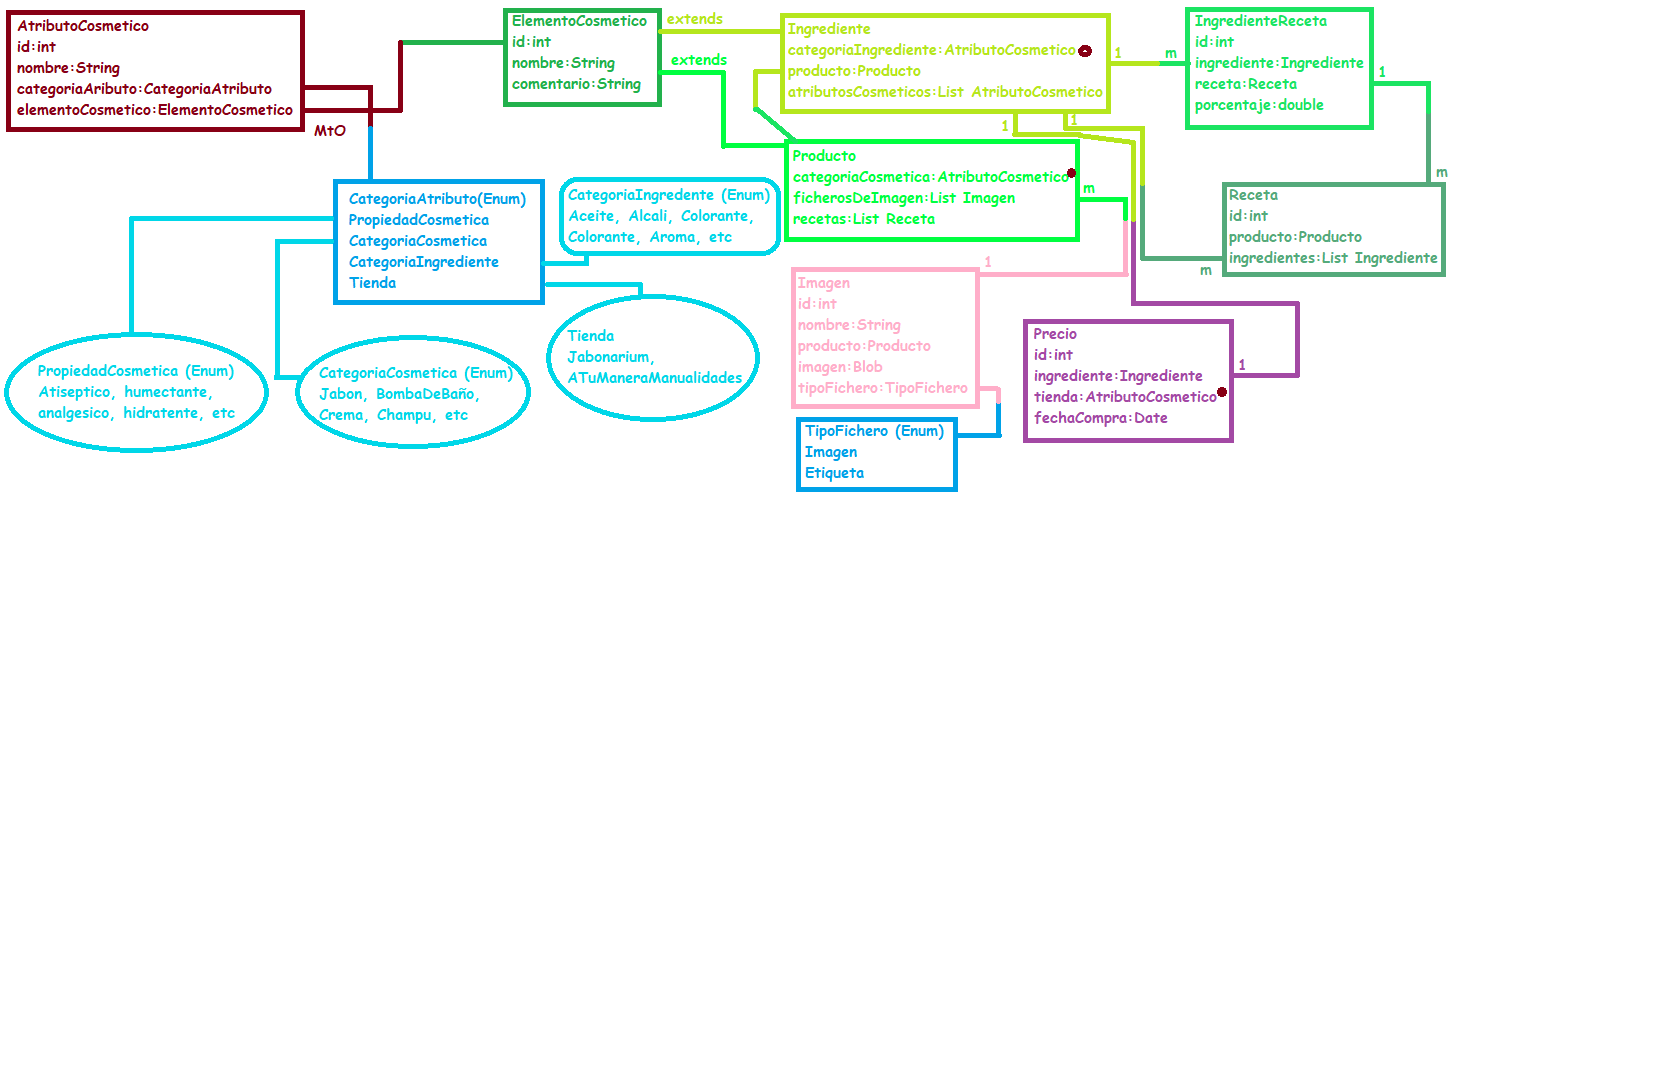
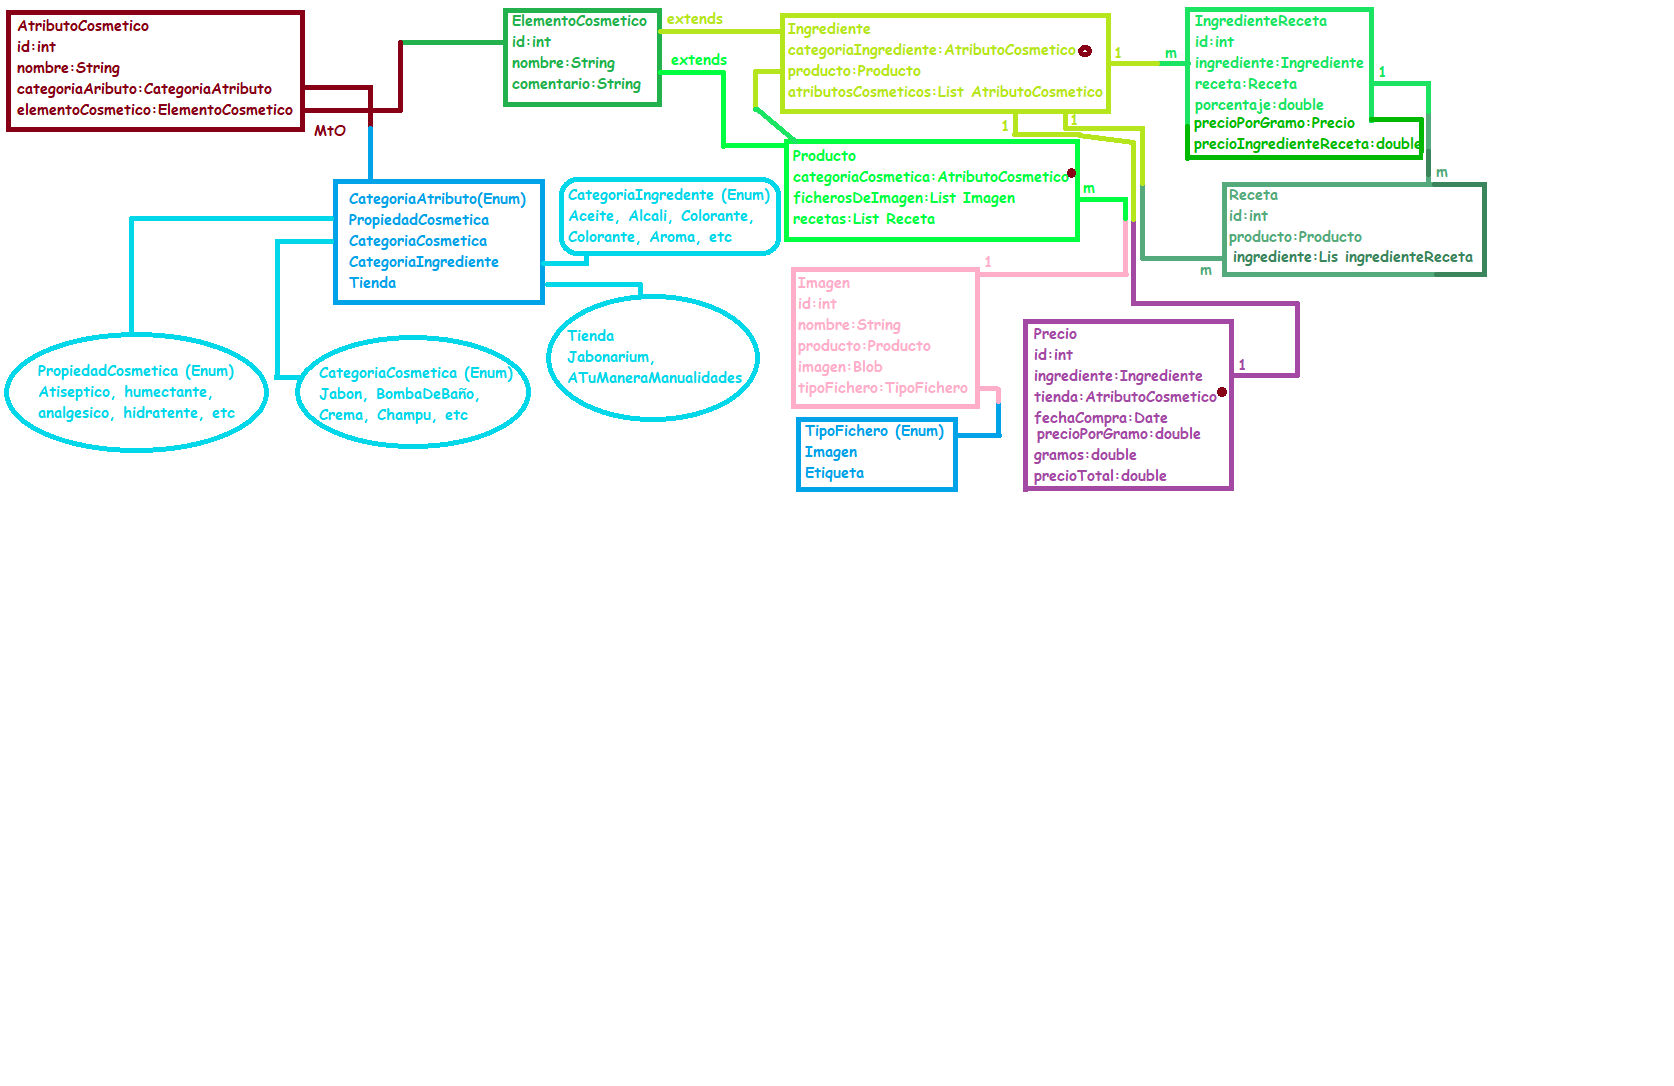
Entidades revisadas

Changed region(s): [[0.6834, 0.0912, 0.9008, 0.1823], [0.5902, 0.395, 0.7455, 0.4558], [0.7455, 0.2127, 0.9008, 0.2735]]

diff --git a/src/main/java/cosmetic/controller/AtributoCosmeticoControlador.java b/src/main/java/cosmetic/controller/AtributoCosmeticoControlador.java
@@ -27,33 +27,33 @@ class AtributoCosmeticoControlador {
         return atributo.findAll();
     }
 
-    @PostMapping("/AtributosCosmetico")
-    AtributoCosmetico altaAtributoCosmetico(@RequestBody AtributoCosmetico NuevoAtributoCosmetico) {
-        return atributo.save(NuevoAtributoCosmetico);
+    @PostMapping("/AtributoCosmetico")
+    AtributoCosmetico altaAtributoCosmetico(@RequestBody AtributoCosmetico nuevoAtributoCosmetico) {
+        return atributo.save(nuevoAtributoCosmetico);
     }
 
     // Single item
-    @GetMapping("/AtributosCosmetico/{id}")
+    @GetMapping("/AtributoCosmetico/{id}")
     AtributoCosmetico obtener(@PathVariable Long id) {
 
        
         return atributo.findById(id.intValue());
     }
 
-    @PutMapping("/AtributosCosmetico/{id}")
-    AtributoCosmetico modificarAtributoCosmetico(@RequestBody AtributoCosmetico newAtributoCosmetico,
+    @PutMapping("/AtributoCosmetico/{id}")
+    AtributoCosmetico modificarAtributoCosmetico(@RequestBody AtributoCosmetico nuevoAtributoCosmetico,
             @PathVariable Long id) {
 
-        AtributoCosmetico atributo_obj = null;
-        atributo_obj = atributo.findById(id.intValue());
+        AtributoCosmetico atributoObj = null;
+        atributoObj = atributo.findById(id.intValue());
         if (atributo == null) {
-            atributo_obj = new AtributoCosmetico();
+            atributoObj = new AtributoCosmetico();
         }
 
-        atributo_obj.setNombre(newAtributoCosmetico.getNombre());
+        atributoObj.setNombre(nuevoAtributoCosmetico.getNombre());
         // atributo_obj.setNombre(newAtributoCosmetico.getNombre());
 
-        return atributo_obj;
+        return atributoObj;
 
     }
 

diff --git a/src/main/java/cosmetic/modelo/entidad/Precio.java b/src/main/java/cosmetic/modelo/entidad/Precio.java
@@ -28,15 +28,22 @@ public class Precio {
 	@OneToOne
 	private AtributoCosmetico tienda;
 	private Date fechaCompra;
+	private double precioPorGramo;// division del precio total entre los gramos.
+	private double gramos;
+	private double precioTotal;
+
+	public double calculoPrecioPorGramo() {
+
+		precioPorGramo = precioTotal / gramos;
+		return precioPorGramo;
+
+	}
 
 	@Override
 	public String toString() {
 		return "Precio [id=" + id + ", ingrediente=" + ingrediente + ", tienda=" + tienda + ", fechaCompra="
-				+ fechaCompra + "]";
-	}
-
-	public Precio() {
-		super();
+				+ fechaCompra + ", precioPorGramo=" + precioPorGramo + ", gramos=" + gramos + ", precioTotal="
+				+ precioTotal + "]";
 	}
 
 	public int getId() {
@@ -69,6 +76,42 @@ public class Precio {
 
 	public void setFechaCreacion(Date fechaCreacion) {
 		this.fechaCompra = fechaCreacion;
+	}
+
+	public double getGramos() {
+		return gramos;
+	}
+
+	public void setGramos(double gramos) {
+		this.gramos = gramos;
+	}
+
+	public double getPrecioTotal() {
+		return precioTotal;
+	}
+
+	public void setPrecioTotal(double precioTotal) {
+		this.precioTotal = precioTotal;
+	}
+
+	public Date getFechaCompra() {
+		return fechaCompra;
+	}
+
+	public void setFechaCompra(Date fechaCompra) {
+		this.fechaCompra = fechaCompra;
+	}
+
+	public double getPrecioPorGramo() {
+		return precioPorGramo;
+	}
+
+	public void setPrecioPorGramo(double precioPorGramo) {
+		this.precioPorGramo = precioPorGramo;
+	}
+
+	public Precio() {
+		super();
 	}
 
 }

diff --git a/src/main/java/cosmetic/modelo/entidad/IngredienteReceta.java b/src/main/java/cosmetic/modelo/entidad/IngredienteReceta.java
@@ -25,12 +25,26 @@ public class IngredienteReceta {
 	@OneToOne
 	private Receta receta;
 	private double porcentaje;
+	@OneToOne
+	private Precio precioPorGramo;
+	private double precioIngredienteReceta;
+
+	public double calculoPrecioIngredienteReceta() {
+		
+		precioIngredienteReceta=precioPorGramo.calculoPrecioPorGramo()*porcentaje;
+		return precioIngredienteReceta;
+	}
+	
+	
 
 	@Override
 	public String toString() {
-		return "IngredienteReceta [ingrediente=" + ingrediente + ", receta=" + receta + ", porcentaje=" + porcentaje
-				+ "]";
+		return "IngredienteReceta [id=" + id + ", ingrediente=" + ingrediente + ", receta=" + receta + ", porcentaje="
+				+ porcentaje + ", precioPorGramo=" + precioPorGramo + ", precioIngredienteReceta="
+				+ precioIngredienteReceta + "]";
 	}
+
+
 
 	public IngredienteReceta() {
 		super();
@@ -67,5 +81,23 @@ public class IngredienteReceta {
 	public void setPorcentaje(double porcentaje) {
 		this.porcentaje = porcentaje;
 	}
+
+	public Precio getPrecioPorGramo() {
+		return precioPorGramo;
+	}
+
+	public void setPrecioPorGramo(Precio precioPorGramo) {
+		this.precioPorGramo = precioPorGramo;
+	}
+
+	public double getPrecioIngredienteReceta() {
+		return precioIngredienteReceta;
+	}
+
+	public void setPrecioIngredienteReceta(double precioIngredienteReceta) {
+		this.precioIngredienteReceta = precioIngredienteReceta;
+	}
+	
+	
 
 }

diff --git a/src/main/java/cosmetic/controller/IngredienteRecetaControlador.java b/src/main/java/cosmetic/controller/IngredienteRecetaControlador.java
@@ -3,9 +3,11 @@ package cosmetic.controller;
 import java.util.List;
 
 import org.springframework.beans.factory.annotation.Autowired;
+import org.springframework.web.bind.annotation.DeleteMapping;
 import org.springframework.web.bind.annotation.GetMapping;
 import org.springframework.web.bind.annotation.PathVariable;
 import org.springframework.web.bind.annotation.PostMapping;
+import org.springframework.web.bind.annotation.PutMapping;
 import org.springframework.web.bind.annotation.RequestBody;
 import org.springframework.web.bind.annotation.RestController;
 
@@ -32,5 +34,23 @@ public class IngredienteRecetaControlador {
 	@GetMapping("/IngredientesReceta")
 	List<IngredienteReceta> listar() {
 		return ingredienteRecetaDao.findAll();
+	}
+	
+	//REVISAR NO VA
+	@PutMapping("/IngredienteReceta/{id}")
+	IngredienteReceta modificarIngredienteReceta(@RequestBody IngredienteReceta ingredienteReceta, @PathVariable int id) {
+		IngredienteReceta ingRecObjeto = null;
+		ingRecObjeto = ingredienteRecetaDao.findById(id);
+		if(ingredienteRecetaDao==null) {
+			ingRecObjeto = new IngredienteReceta();
+		}
+		ingRecObjeto.setId(ingredienteReceta.getId());
+		return ingRecObjeto;
+	}
+	//REVISAR NO VA
+	@DeleteMapping("/IngredienteReceta/{id}")
+	void borrarIngredienteReceta(@PathVariable int id) {
+		ingredienteRecetaDao.deleteById(id);
+	
 	}
 }

diff --git a/src/main/java/cosmetic/modelo/entidad/Receta.java b/src/main/java/cosmetic/modelo/entidad/Receta.java
@@ -30,10 +30,10 @@ public class Receta {
 	@ElementCollection
 	@OneToMany(targetEntity = IngredienteReceta.class, mappedBy = "receta")
 	private List<IngredienteReceta> ingredientes;
-
+	private double precioReceta;//La suma de los precios de los ingredientes. 
 	@Override
 	public String toString() {
-		return "Receta [id=" + id + ", producto=" + producto + ", ingredientes=" + ingredientes + "]";
+		return "Receta [id=" + id + ", producto=" + producto + ", ingredientes=" + ingredientes + ", precioReceta" + "]";
 	}
 
 	public Receta() {
@@ -62,6 +62,14 @@ public class Receta {
 
 	public void setIngredientes(List<IngredienteReceta> ingredientes) {
 		this.ingredientes = ingredientes;
+	}
+
+	public double getPrecioReceta() {
+		return precioReceta;
+	}
+
+	public void setPrecioReceta(double precioReceta) {
+		this.precioReceta = precioReceta;
 	}
 
 }

diff --git a/src/main/java/cosmetic/modelo/entidad/AtributoCosmetico.java b/src/main/java/cosmetic/modelo/entidad/AtributoCosmetico.java
@@ -12,6 +12,8 @@ import javax.persistence.Table;
 import org.springframework.context.annotation.Scope;
 import org.springframework.stereotype.Component;
 
+//Esta entidad esta creada para gestionar los enum del resto de entidades.
+
 @Entity
 @Table(name = "atributoCosmetico")
 @Component
@@ -26,7 +28,8 @@ public class AtributoCosmetico {
 	// Referenciar al resto de enum desde negocio, podria ser con un switch,
 	// cada case seria lo devuelto por categoriaAtributo haciendo referencia
 	// a cada uno de los enum
-	@ManyToOne
+	
+	@ManyToOne//para el mapeado con ingrediente. 
 	private ElementoCosmetico elementoCosmetico;
 
 	@Override

diff --git a/src/main/java/cosmetic/modelo/persistencia/AtributoCosmeticoDao.java b/src/main/java/cosmetic/modelo/persistencia/AtributoCosmeticoDao.java
@@ -5,11 +5,14 @@ import java.util.List;
 import org.springframework.data.jpa.repository.JpaRepository;
 
 import cosmetic.modelo.entidad.AtributoCosmetico;
-															//<Entidad, clave primaria>
+
+                                                            //<Entidad, clave primaria>
 public interface AtributoCosmeticoDao extends JpaRepository<AtributoCosmetico, Integer> {
 
 	List<AtributoCosmetico> findByNombreContainingIgnoreCase(String nombre);
 
 	AtributoCosmetico findById(int id);
+
+	AtributoCosmetico findByNombre(String nombre);
 
 }

diff --git a/src/main/java/cosmetic/controller/IngredienteControlador.java b/src/main/java/cosmetic/controller/IngredienteControlador.java
@@ -53,7 +53,7 @@ public class IngredienteControlador {
 		return ingredienteDao.findAll();
 	}
 
-	@GetMapping("/Ingredientes/{id}")
+	@GetMapping("/Ingrediente/{id}")
 	Ingrediente buscarPorId(@PathVariable Long id) {
 		return ingredienteDao.findById(id.intValue());
 	}
